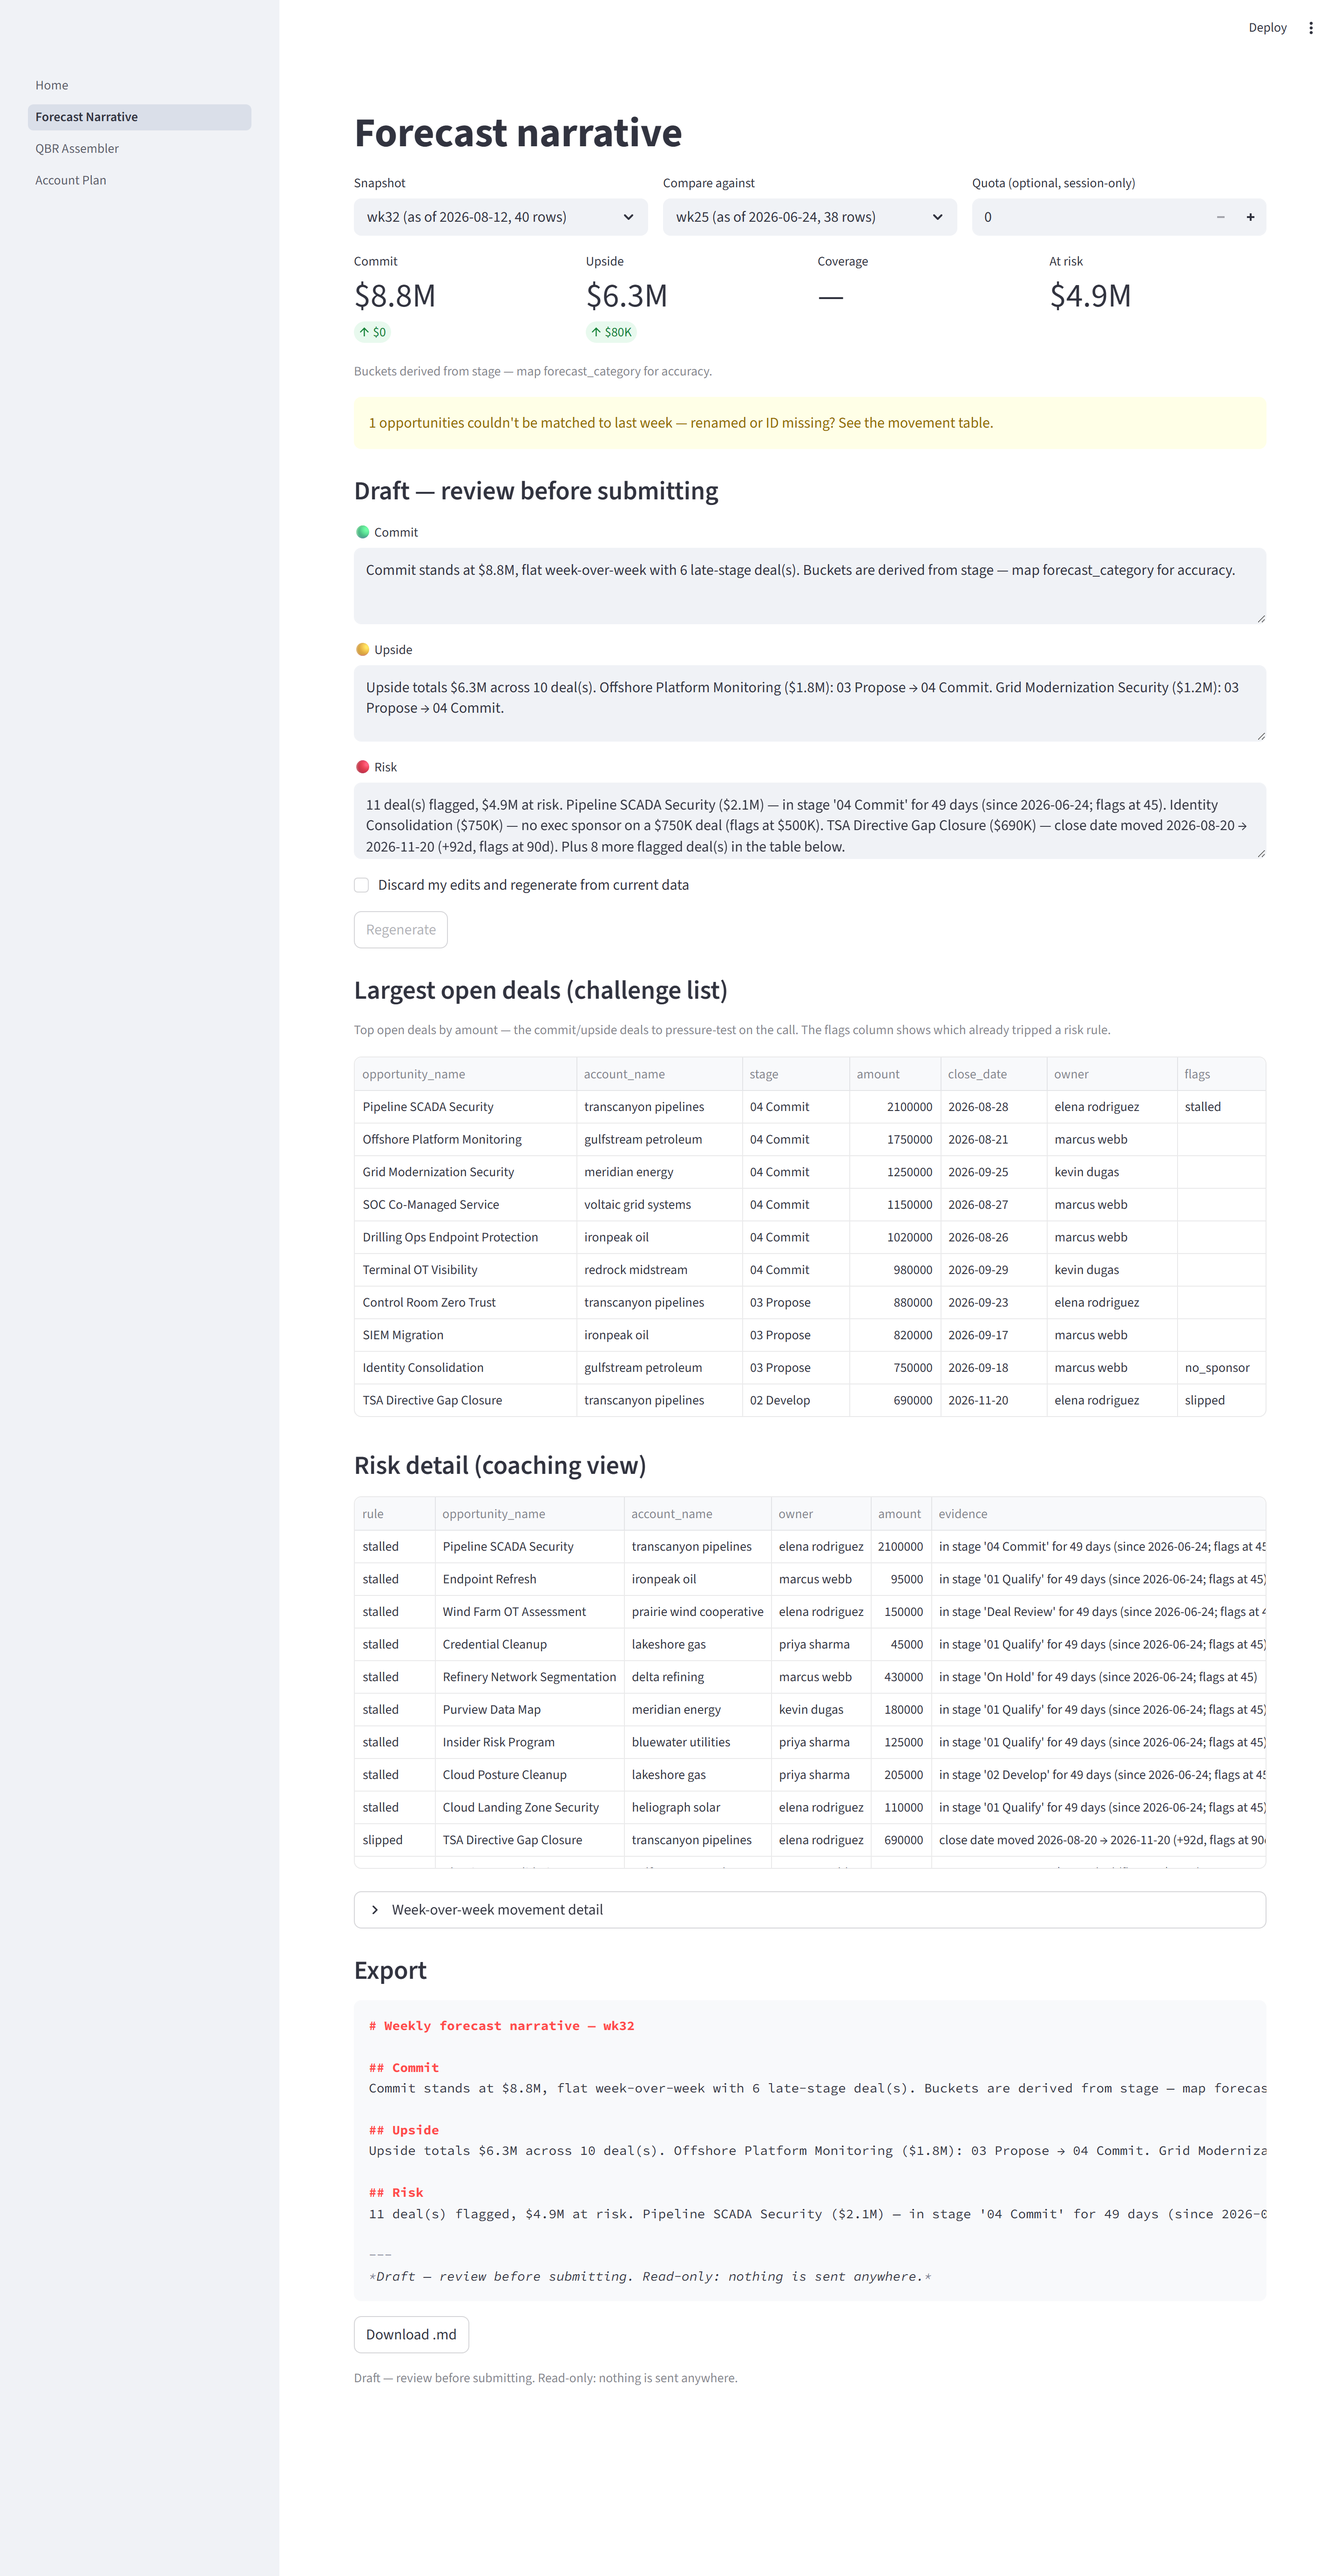
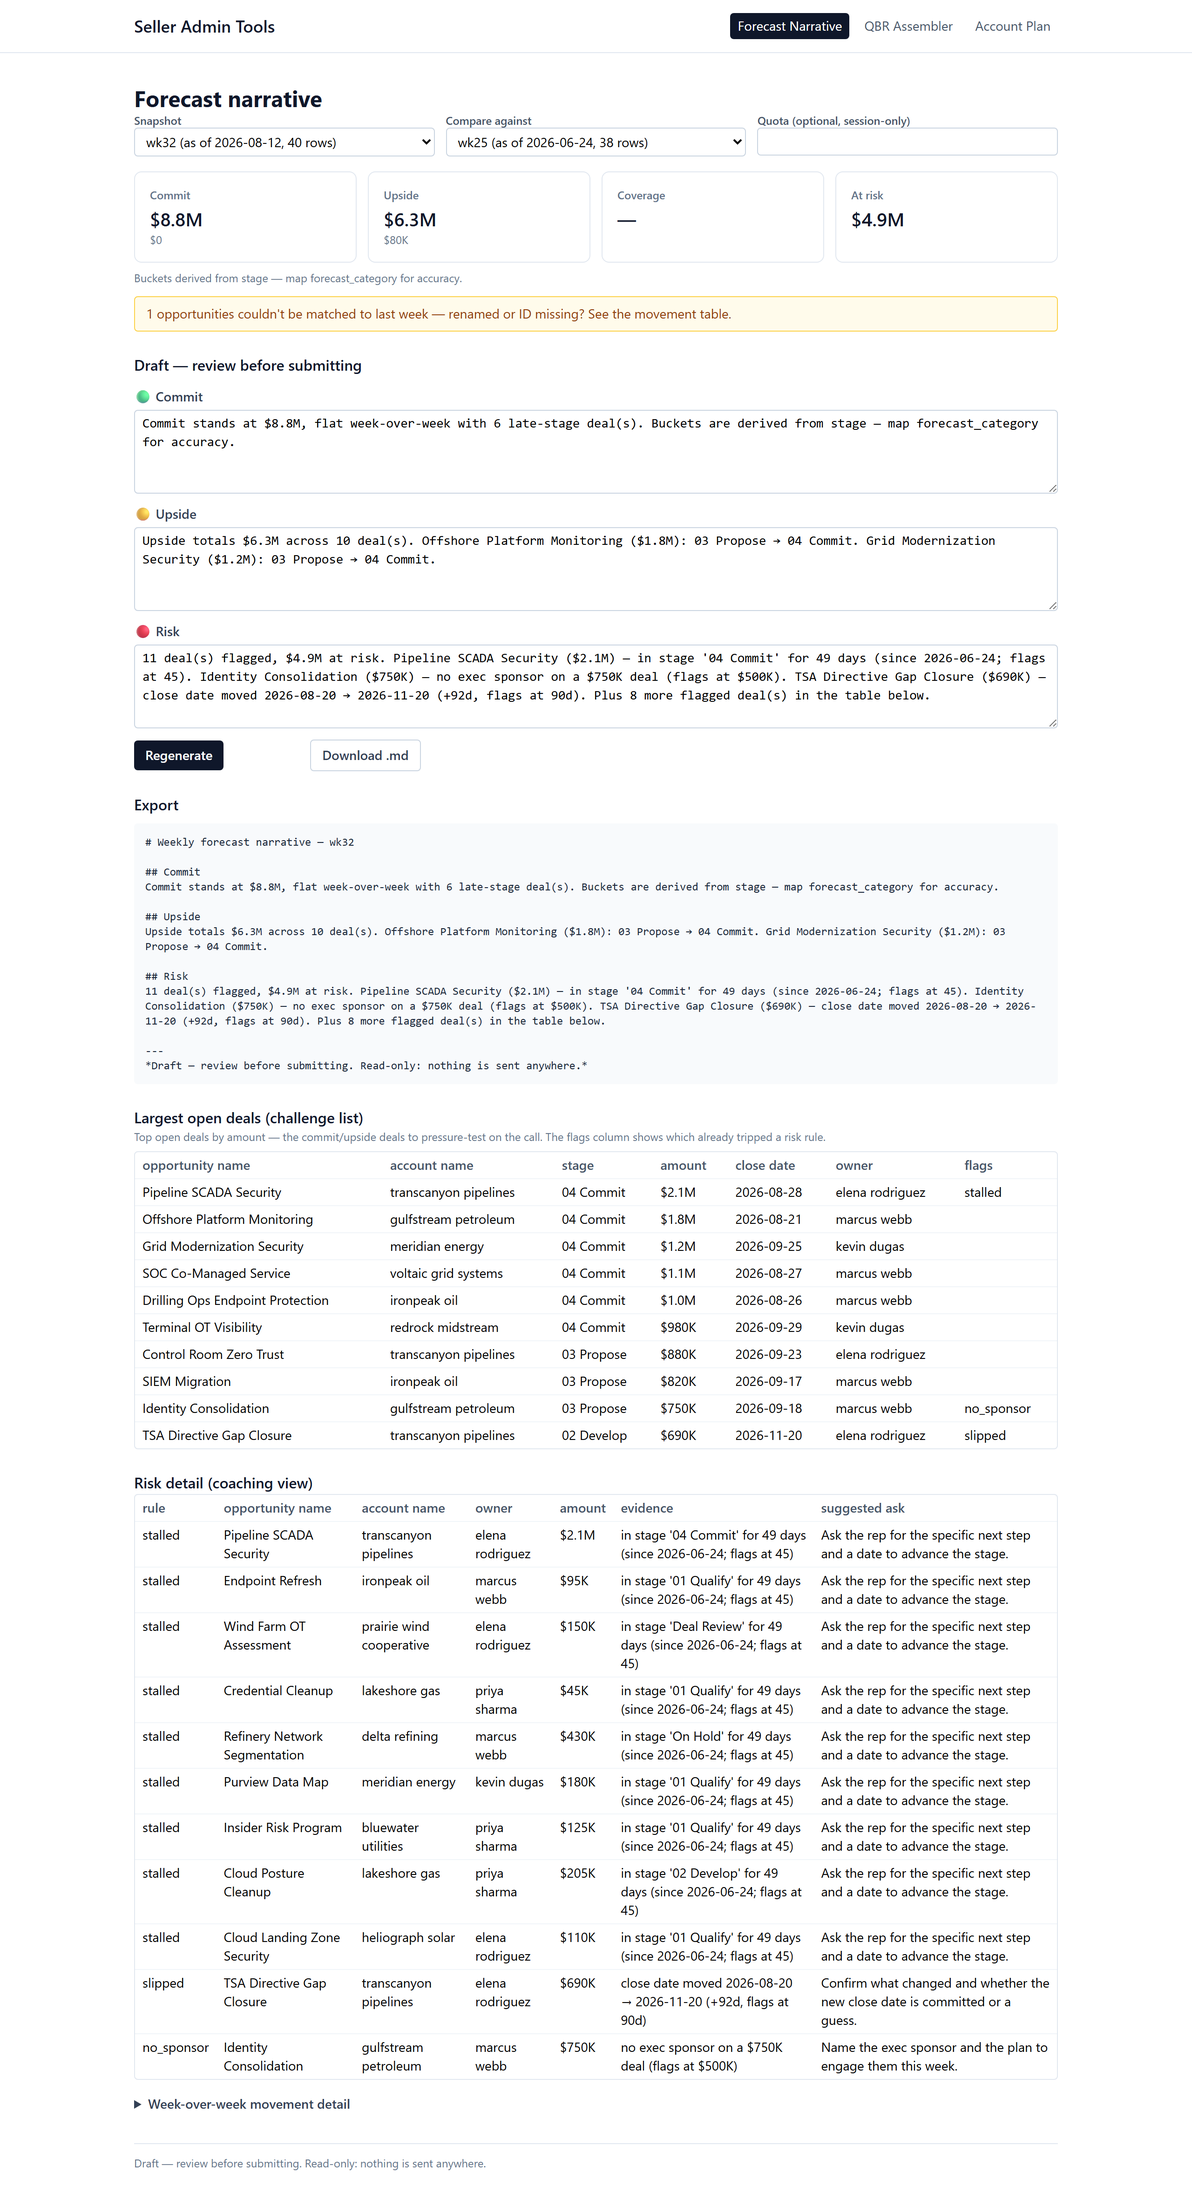
docs: recapture tools 1-3 screenshots against the FastHTML UI; finalize README
The three tool screenshots now show the FastHTML tools (Home/tool 0 stays
Streamlit). Captures include the persona panels — forecast challenge list +
'suggested ask', QBR credibility/trend/by-seller, account-plan status glyphs.
Rebuild docs/demo-reel.gif from the new stills (deterministic; --check clean).
README: FastHTML run steps + architecture reconciled with origin/main; test
count 173.

diff --git a/README.md b/README.md
@@ -310,7 +310,7 @@ web/          FastHTML app for the three tools:
 app/          Streamlit entry: Home.py (ingest & mapping) + mapping_ui helpers
 sample_data/  fictional sample CSVs + seed script
 scripts/      build-only tooling (demo-reel GIF), not a runtime dependency
-tests/        pytest suite (TESTCOUNT tests)
+tests/        pytest suite (173 tests)
 data/         SQLite database (created at runtime, git-ignored)
 ```
 
@@ -342,7 +342,7 @@ shared core.
 python -m pytest
 ```
 
-TESTCOUNT tests cover the ingest/mapping pipeline, forecast analytics (including
+173 tests cover the ingest/mapping pipeline, forecast analytics (including
 week-over-week matching, risk-flag boundaries, the multi-week trend, and
 commit-conversion credibility), deck consistency, the compliance crosswalk, the
 per-tool view models, and the FastHTML routes (golden parity gates hold the
